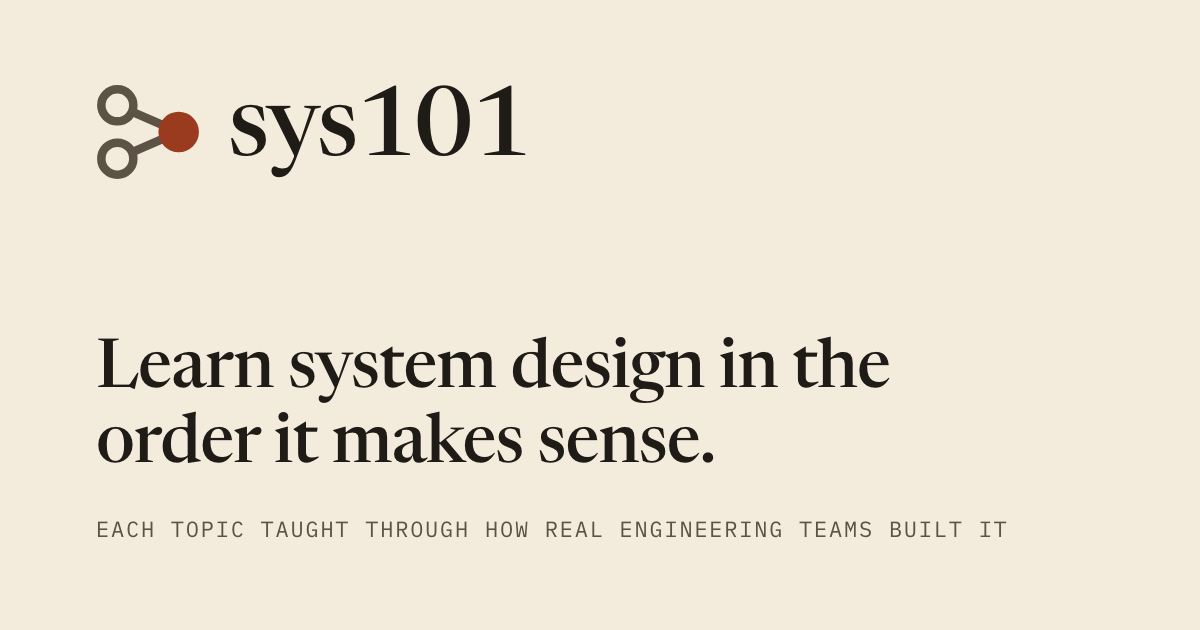
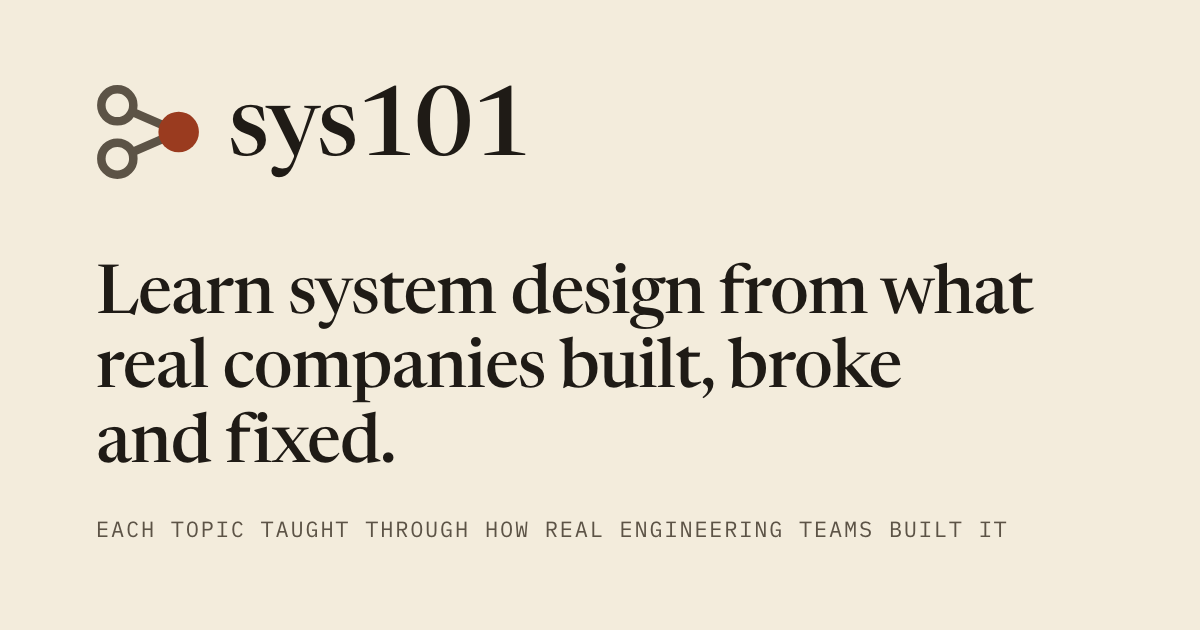
Homepage: shorter intro and lead line, site mark beside the wordmark, shorter companies note; /posts shows totals at the bottom and no heading counts; docs and owner's log updated

Changed region(s): [[0.0617, 0.4222, 0.8633, 0.754]]

diff --git a/app/page.tsx b/app/page.tsx
@@ -4,13 +4,14 @@ import InsideTopic from "@/components/InsideTopic";
 import { featuredFigures } from "@/lib/lessonOutline";
 import NextUp from "@/components/NextUp";
 import TourLink from "@/components/TourLink";
+import { LogoMark } from "@/components/Logo";
 import PostSources from "@/components/PostSources";
 import Search from "@/components/Search";
 import TryQuestion from "@/components/TryQuestion";
 import SiteFooter from "@/components/SiteFooter";
 import { optionId } from "@/lib/quizIds";
 import { depths } from "@/lib/graph";
-import { organization, sourceCounts } from "@/lib/posts";
+import { organization } from "@/lib/posts";
 import { MIXED_LABEL } from "@/lib/organization";
 import { formatNumber, topicNumbers, topicOrder } from "@/lib/order";
 import { GROUPS, getAllTopics, type Group } from "@/lib/topics";
@@ -64,7 +65,6 @@ export default function Home() {
   const dns = topics.find((t) => t.slug === "dns");
   const quiz = dns?.lesson?.quiz;
   if (!dns || !quiz?.length) throw new Error("Homepage: the DNS topic needs a lesson quiz for Try a question");
-  const { total: sourceTotal, organizations } = sourceCounts(ordered);
   const credits = new Map<string, Set<string>>();
   for (const p of topics.flatMap((t) => t.posts)) credits.set(organization(p.company), (credits.get(organization(p.company)) ?? new Set()).add(p.company));
   const companies = [...credits.keys()]
@@ -74,8 +74,11 @@ export default function Home() {
     <main className="home">
       <header className="masthead">
         <div className="masthead-main">
-          <h1>sys101</h1>
-          <p className="masthead-lead">Learn system design in the order it makes sense.</p>
+          <div className="masthead-title">
+            <LogoMark size={46} />
+            <h1>sys101</h1>
+          </div>
+          <p className="masthead-lead">Learn system design from what real companies built, broke and fixed.</p>
           <NextUp
             start={{ slug: ordered[0].slug, title: ordered[0].title, minutes: readingMinutes(ordered[0], getNews(ordered[0].slug)) }}
             entries={ordered.map((t) => ({ slug: t.slug, title: t.title, prerequisites: t.prerequisites }))}
@@ -91,12 +94,12 @@ export default function Home() {
         <div className="masthead-side">
           <div className="masthead-about">
             <p>
-              For developers who can build an app and want to understand how large systems are designed. The same few ideas keep
-              coming back (caching, replication, queues, failover), and they stick best when you see how real teams built and fixed them.
+              Behind most systems you use is a team that got it wrong first: a database that outgrew its server, a cache that took the
+              site down, a retry storm nobody saw coming. They wrote it up, and those posts are a goldmine.
             </p>
             <p>
-              {topics.length} topics and {sourceTotal} sources from {organizations} organizations, each linked and dated on its topic page. Each topic builds only on the ones
-              before it, so you never have to guess what to read first.
+              sys101 puts them in order, so you learn caching, replication and queues from what really happened, and always know
+              what to read next.
             </p>
           </div>
           <Search />

diff --git a/components/PostsIndex.tsx b/components/PostsIndex.tsx
@@ -196,9 +196,7 @@ export default function PostsIndex({ data }: { data: Data }) {
         </div>
       </div>
       <p id="posts-filter-status" className="posts-count" aria-live="polite">
-        {q
-          ? `${matching} of ${data.total} sources match “${query.trim()}”.`
-          : `${data.total} sources from ${data.companyCount} organizations (${sourceKinds(data.counts)}), taught across ${data.topicCount} topics.`}
+        {q ? `${matching} of ${data.total} sources match “${query.trim()}”.` : ""}
       </p>
 
       <div data-pagefind-body>
@@ -249,6 +247,12 @@ export default function PostsIndex({ data }: { data: Data }) {
             <ul className="posts-list">{y.posts.map((p) => row(p, false, "year"))}</ul>
           </div>
         )),
+      )}
+
+      {!q && (
+        <p className="posts-count posts-total">
+          {data.total} sources from {data.companyCount} organizations ({sourceKinds(data.counts)}), taught across {data.topicCount} topics.
+        </p>
       )}
 
       <script dangerouslySetInnerHTML={{ __html: PICK_VIEW }} />

diff --git a/app/globals.css b/app/globals.css
@@ -210,6 +210,13 @@ h1[tabindex="-1"]:focus {
   padding-top: 4px;
 }
 
+/* The site's own three-node mark beside the wordmark (the same mark as the header). The h1 stays alone inside so its letters can still fly. */
+.masthead-title {
+  display: flex;
+  align-items: center;
+  gap: 18px;
+}
+
 .masthead h1 {
   font-size: 64px;
   font-weight: 500;
@@ -278,7 +285,7 @@ h1[tabindex="-1"]:focus {
   .masthead-side {
     display: contents;
   }
-  .masthead h1 { order: 1; }
+  .masthead .masthead-title { order: 1; }
   .masthead .masthead-lead { order: 2; }
   .masthead .start-cta,
   .masthead .next-up { order: 3; }
@@ -3636,6 +3643,12 @@ html {
   margin: 4px 0 0;
   font-size: 16px;
   color: var(--ink-soft);
+}
+.posts-count:empty {
+  margin: 0;
+}
+.posts-total {
+  margin-top: 40px;
 }
 /* The inline script sets data-posts-view; without JavaScript no view is hidden. */
 html[data-posts-view="topic"] [data-view]:not([data-view="topic"]),

diff --git a/components/PostSources.tsx b/components/PostSources.tsx
@@ -25,7 +25,7 @@ export default function PostSources({ companies }: Props) {
         ))}
       </ul>
       <p className="home-extra-note">
-        Every source is linked and dated on its topic page, and <Link href="/posts">all of them are listed here</Link>, with <Link href="/reads">great reads</Link> kept apart. {notCompanies.length > 0 && `${notCompanies.join(" and ")} is an open-source project, not a company. `}None of these is affiliated with this site.
+        <Link href="/posts">Browse every source</Link>, or start with the <Link href="/reads">great reads</Link>. {notCompanies.length > 0 && `${notCompanies.join(" and ")} is an open-source project, not a company. `}None of these is affiliated with this site.
       </p>
     </section>
   );

diff --git a/lib/site.ts b/lib/site.ts
@@ -10,7 +10,7 @@ export const REPORT_EMAIL = CONTACT_EMAIL;
 export const SITE_URL = (process.env.SITE_URL || "https://sys101.vercel.app").replace(/\/+$/, "");
 export const SITE_NAME = "sys101";
 /** Static 1200x630 social image, drawn by scripts/make-og.mjs from the wordmark and tagline. */
-const OG_IMAGE = { path: "/og.png", width: 1200, height: 630, alt: "sys101: learn system design in the order it makes sense" } as const;
+const OG_IMAGE = { path: "/og.png", width: 1200, height: 630, alt: "sys101: learn system design from what real companies built, broke and fixed" } as const;
 /** A page title must be shorter than this many characters (checked by scripts/check-seo.mjs). */
 const TITLE_MAX = 60;
 export const SITE_DESCRIPTION =

diff --git a/.claude/rules/homepage.md b/.claude/rules/homepage.md
@@ -22,18 +22,24 @@ Applies when editing the homepage and its parts.
 
 ## Standing rules
 
-- Topic numbers come from one function, topicOrder in lib/order.ts. Order: masthead (what it is, who it is for, why, one filled start button), map or Path view with the "All topics" index, Inside a topic (DNS), Try a question, Companies we learn from. Thin dividers, no cards or images; the only icons are company marks beside company names (components/CompanyLogo.tsx). A new company in any post needs a mark: node scripts/make-logos.mjs add (.claude/rules/logos.md); a test fails without one.
+- Topic numbers come from one function, topicOrder in lib/order.ts. Order: masthead (what it is, who it is for, why, one filled start button), map or Path view with the "All topics" index, Inside a topic (DNS), Try a question, Companies we learn from. Thin dividers, no cards or images; the only icons are company marks beside company names (components/CompanyLogo.tsx), plus the site's own `LogoMark` beside the big wordmark. A new company in any post needs a mark: node scripts/make-logos.mjs add (.claude/rules/logos.md); a test fails without one.
 - Every homepage number, name, date, and excerpt is computed from data at build time. Never hardcode them (lib/homepage.test.ts scans the source).
 - "Try a question" uses component state only and never touches the progress store.
 
 ## Specification
 
-- Order: masthead (wordmark, lead line, who it is for and why in two short paragraphs, the start button or Next up line, Why this exists and tour links, search; two columns from 1024px with the pitch beside the wordmark, one column below, so the map's top edge stays visible; the right column, the search underline and the Map/Path controls end on one right edge), the map or Path view with the "All topics" index, Inside a topic (DNS), Try a question, Companies we learn from. Thin dividers, no cards or images; the only icons are company marks beside company names (.claude/rules/logos.md). The top edge of the map stays visible without scrolling at 1440x800 and 390x844.
+- Order: masthead (wordmark, lead line, a two-paragraph pitch: why company write-ups are worth learning from, and what the site does with them, the start button or Next up line, Why this exists and tour links, search; two columns from 1024px with the pitch beside the wordmark, one column below, so the map's top edge stays visible; the right column, the search underline and the Map/Path controls end on one right edge), the map or Path view with the "All topics" index, Inside a topic (DNS), Try a question, Companies we learn from. Thin dividers, no cards or images; the only icons are company marks beside company names (.claude/rules/logos.md). The top edge of the map stays visible without scrolling at 1440x800 and 390x844.
 - Every homepage number, name, date, and excerpt is computed from data at build time (topics, quiz, posts). Never hardcode them; lib/homepage.test.ts scans the source.
 - The one filled button under the intro (NextUp, `homeAction` in lib/nextUp.ts, from local progress only; the static HTML shows the first-visit version). Priority: a topic you deliberately started (a section marked done or a quiz question answered) beats one that is merely ready, because it is what you are in the middle of. 1) Started: "Continue: <topic>" (or "Finish:" when two or fewer units are left) linking to the first unfinished section, with that section's name and "x of N done" beside it. 2) Nothing started, nothing read: "Start with <first topic>" and its reading time. 3) Something read, nothing started: "Next up: <topic>" with "Also ready" under it and the topics-read count. 4) Everything read: "All caught up". With several started, the latest deliberate change wins (`updated` is stamped only on those), then the one furthest along, then course order; the quiet line under the button names up to two others with their progress and "and N more". With one started, the quiet line is "After it: <next ready topic>". Topics that are read, no longer in the course, or only visited are ignored. There is no separate "pick up where you left off" line: this button replaces it.
 - Inside a topic: the real section names in order (lib/lessonOutline.ts, checked against TopicLesson.tsx) with real counts, generic wording (no topic name, no "Open" link), and a figure of the day: one digest figure from FEATURED_FIGURES, each with company, year, and its post linked. All are in the static HTML; the first shows without JavaScript and the reader's local date picks one after load. Each must exist in its digest (the build fails otherwise).
 - Try a question: the DNS lesson quiz questions in order, looping. After an answer the result stays 5 seconds (paused while the pointer or focus is inside, and "Next question" skips it), then the next question fades in (opacity and transform only). Component state only; never reads or writes the progress store.
-- Counts: the intro and /posts say "sources" and "organizations" (lib/posts.ts sourceCounts: one entry per URL, Amazon and its Builders' Library credit as one organization). /posts also names the kinds present: engineering posts, research papers (ageNote starts "This is a research paper"), documentation pages (an edition other than "date unknown").
+- Counts: the homepage shows none (the intro is two short paragraphs of pitch, no numbers; the note under the companies row links /posts and /reads). /posts says "sources" and "organizations" (lib/posts.ts sourceCounts: one entry per URL, Amazon and its Builders' Library credit as one organization). /posts also names the kinds present: engineering posts, research papers (ageNote starts "This is a research paper"), documentation pages (an edition other than "date unknown").
 - Companies we learn from: organizations alphabetical, each with its mark (when it has one), in a wrapped, left-aligned row of mark plus name (marks dimmed with opacity 0.7, full on hover and focus, never recoloured; `even` on CompanyLogo sizes each to the same area with a width and height cap), linking to that company on /posts (`/posts#<company>` opens the By company view); no counts here, /posts has them. Where one organization has several credits with different names (Amazon: the Dynamo paper; AWS: the Builders' Library) the label says both (`MIXED_LABEL`, lib/organization.ts, "Amazon and AWS") and the AWS mark stands for it. Names in `NOT_COMPANIES` (lib/organization.ts: etcd, a project) are called out in the note as not companies, so the title stays honest. Its note links /posts and /reads (Great reads, which are not counted here).
 - "/" focuses search (not while typing or with Ctrl, Cmd, Alt); Escape clears and blurs. Footer "Report a mistake" mails REPORT_EMAIL in lib/site.ts.
 - Reading order and numbers: one function, `topicOrder` in lib/order.ts, orders all topics for the Map index, the Path view, the Next up tie-break and the sitemap. Sort: the map's columns of the transitive reduction read left to right, so prerequisite depth first, then position in the column (barycenter sweeps, ties kept in input order, which is alphabetical by title). Numbers are global, 1 to N (`topicNumbers`), shown as 01 to NN. Every topic's number is greater than all its prerequisites'. The Path view groups by `group`, so numbers rise within a group but not always down the whole page; its caption says the numbers are a suggestion and prerequisites are what matter. Group headers read "Data · 6 of 18 topics".
+
+## Owner's later decisions (this area)
+
+- Wordmark: the site's own `LogoMark` (46px) sits left of the big "sys101" in `.masthead-title`; the h1 stays alone inside so its letters can fly (`lib/letterRise.ts`). Not a background or watermark.
+- Lead line: "Learn system design from what real companies built, broke and fixed." (same text in `scripts/make-og.mjs` and the OG alt in `lib/site.ts`; rerun `node scripts/make-og.mjs` after changing it).
+- /posts: no counts beside company, topic or year headings; the "N sources from N organizations (...)" line is at the bottom (`.posts-total`), and the top status line is empty except while filtering.

diff --git a/README.md b/README.md
@@ -43,7 +43,7 @@ Years are shown for posts more than five years old; each topic page explains why
 2. **Each topic page is a lesson.** It opens with a reading-time estimate computed from its content, then an "In short" summary. It has two halves. First the idea: why the concept exists, a mental model with a diagram, how it works step by step, a worked example, the common mistakes, a self-check quiz with explained answers, and a "skip to the posts" link for people who already know it. Then the real world: a digest of each company post (problem, constraints, walkthrough, diagram, numbers, trade-offs, what failed, takeaways), a comparison when there are two or more posts, an interactive isometric figure on a post that gives a mechanism (so far the sliding-window gauge in Rate Limiting, the cache fill race in Caching and the commit latch in Distributed Transactions), and design exercises that rise in difficulty (apply, design, scale) with model answers.
 3. **"Start from zero" learn pages** give an absolute beginner a staged path through a topic (Basics, How it works, Going deeper, In practice and trade-offs), built only from official sources: standards, vendor and project docs, university course pages, and recognized conference talks. Each stage cites its sources inline, points to the exact section to read, and ends with what you can now do. Videos are click-to-load and labelled as optional and not reviewed by the author. Every topic has one at `/topic/<slug>/learn`, and commands and config in "Try it" are shown as scrollable code blocks.
 4. **Reading progress is stored in your browser only.** Nothing is sent to a server, and there are no accounts. Section-level, post-level and quiz progress are tracked per topic, with a progress bar on each page. A topic you have deliberately started (a section marked done or a quiz question answered) shows as "in progress" on the map and the Path view; the Path view also shows a per-group read count and a mark-group-read toggle. Quiz answers are saved by option, not by position, so options can be reordered without losing them, and older saves are upgraded. You can export, import, or reset it on the `/data` page, which also shows a read / in-progress / ready tally.
-5. **A glossary and themes.** `/glossary` gathers every term defined across the topics, grouped by topic with a link back to each, a contents list down the side, and a filter box (focus it with `/`) that jumps straight to a term. `/reads` ("Great reads") is a short, separate list of influential or simply excellent posts and papers, chosen by the author, grouped by what each introduced and each described as of its year (`content/reads/`, checked live by `npm run verify:reads`; `.claude/rules/reads.md`). `/posts` lists every source the topics are built on ("36 sources from 19 organizations", split into posts, papers and documentation), by topic, company or year, with a filter and a contents list. The header shows the page name once its heading scrolls away, and after a thin rule the section you are in, each fading in and replaced by the next as you scroll (and restored on the way back up). Links are not underlined outside running sentences; every search or filter box has the same keys as the homepage search. A sun/moon control in the header switches between the light (cream) and a warm dark theme; the choice is remembered and follows your system setting until you pick one.
+5. **A glossary and themes.** `/glossary` gathers every term defined across the topics, grouped by topic with a link back to each, a contents list down the side, and a filter box (focus it with `/`) that jumps straight to a term. `/reads` ("Great reads") is a short, separate list of influential or simply excellent posts and papers, chosen by the author, grouped by what each introduced and each described as of its year (`content/reads/`, checked live by `npm run verify:reads`; `.claude/rules/reads.md`). `/posts` lists every source the topics are built on (a totals line at the bottom splits them into posts, papers and documentation), by topic, company or year, with a filter and a contents list. The header shows the page name once its heading scrolls away, and after a thin rule the section you are in, each fading in and replaced by the next as you scroll (and restored on the way back up). Links are not underlined outside running sentences; every search or filter box has the same keys as the homepage search. A sun/moon control in the header switches between the light (cream) and a warm dark theme; the choice is remembered and follows your system setting until you pick one.
 6. **Company marks.** A company's mark sits beside its name wherever the name stands as a label (the homepage sources list, `/posts`, a post's header, Original posts, In short, the left rail, What's new, Background). They are local SVG files from svgl (official brand SVGs) or Simple Icons, never recoloured and never fetched at runtime; a mark with a dark-page version swaps with the theme. `node scripts/make-logos.mjs add "Company" [domain]` finds one for a new company (svgl, then Simple Icons, then Hunter by domain), and a test fails until a new company has one. The marks belong to their owners and are shown only to say whose post it is (`.claude/rules/logos.md`).
 
 ## How posts are chosen

diff --git a/CLAUDE.md b/CLAUDE.md
@@ -72,7 +72,7 @@ Handcrafted, not AI-template. Cream background, serif headings, restrained palet
 - Always: skeleton loaders, a real working demo, Terms and Privacy pages in the footer.
 - Review every page or UI piece before calling it done: render it at 1440px and 390px and check it reads as part of the whole (mono small-caps labels, generous whitespace, state shown by shape not colour alone).
 - Check spacing: text and adjacent controls must never run together. Prefer a flex row with `gap` over JSX `{" "}`. Catch this in development, never push it.
-- Company marks are the only icons: beside company names, from local files, never recoloured (`logos.md`). Homepage: thin dividers, no cards or images.
+- Company marks are the only icons: beside company names, from local files, never recoloured (`logos.md`). The one other mark is the site's own three-node `LogoMark` (components/Logo.tsx): in the header and beside the homepage wordmark, nowhere else and never as a background or watermark. Homepage: thin dividers, no cards or images.
 - On a UI request, fix every similar element across the page, not one spot, and check that no count or status appears twice on one page (client-rendered parts included).
 
 ## Architecture of the site itself
@@ -121,6 +121,10 @@ Every idea or preference the owner states is written down, here as one line and 
 - The top bar shows no section names on About, Terms, Privacy and Your data.
 - Links to a section glide down to it (same page), or open the other page at its top and then glide down (`motion.md`, lib/glide.ts).
 - Start button text must stay visible on hover.
+- The homepage sources section is a static, wrapped row of dimmed marks and names titled "Companies we learn from" (no marquee, no exception to the banned list); its note says etcd is a project, not a company (`homepage.md`).
+- Homepage copy is short and made to make a visitor want to explore: no numbers in the intro, no "linked and dated" reassurance (`homepage.md`).
+- No post counts beside company, topic or year headings on /posts; the totals line sits at the bottom, and only the filter count shows at the top while filtering (`homepage.md`).
+- The site's own logo mark sits beside the big homepage wordmark (`homepage.md`).
 
 ## Keeping docs current
 
